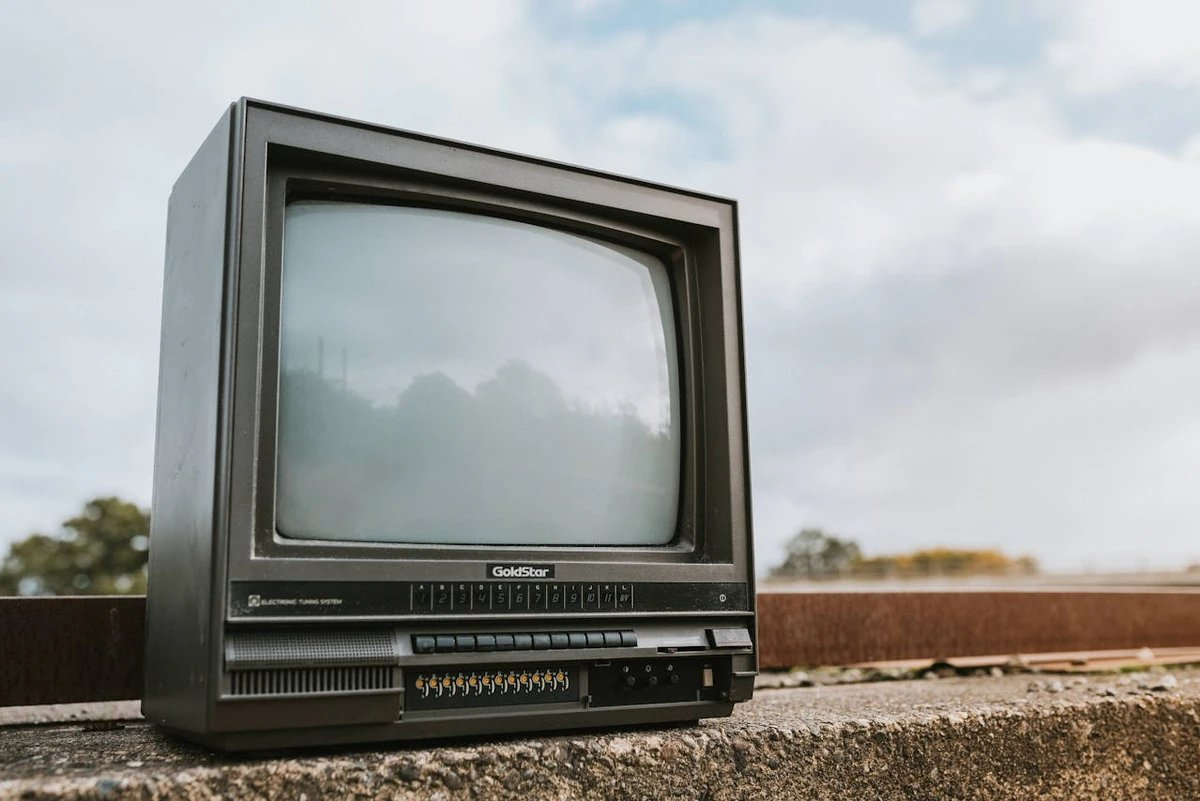
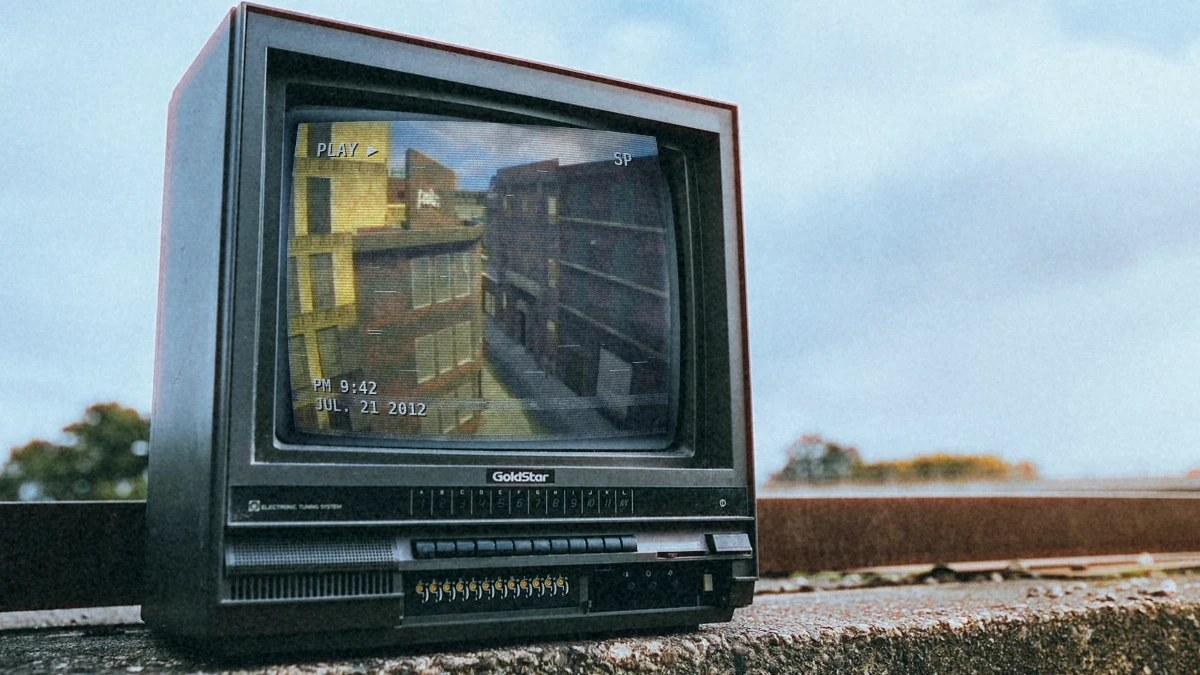
Use the 2012 VHS TV photo and move the panel beside the TV
The new background shows the map on the TV, so the panel now sits on the
right and only that side is darkened.

diff --git a/index.html b/index.html
@@ -23,23 +23,25 @@
         color: #e8e8e8;
         font-family: Tahoma, Verdana, sans-serif;
     }
-    /* Darkens the photo so the text stays readable. */
+    /* Keeps the TV on the left clear and darkens the right, behind the text. */
     .shade {
         position: fixed;
         top: 0;
         right: 0;
         bottom: 0;
         left: 0;
-        background: rgba(10, 13, 20, 0.55);
+        background: -webkit-linear-gradient(left, rgba(10, 13, 20, 0) 0%, rgba(10, 13, 20, 0.1) 55%, rgba(10, 13, 20, 0.7) 100%); /* older GMod browser */
+        background: linear-gradient(to right, rgba(10, 13, 20, 0) 0%, rgba(10, 13, 20, 0.1) 55%, rgba(10, 13, 20, 0.7) 100%);
     }
+    /* The panel sits in the sky to the right of the TV. */
     .wrap {
         position: absolute;
         top: 50%;
-        left: 50%;
-        width: 720px;
-        max-width: 90%;
-        -webkit-transform: translate(-50%, -50%); /* older GMod browser */
-        transform: translate(-50%, -50%);
+        right: 3%;
+        width: 34%;
+        min-width: 380px;
+        -webkit-transform: translateY(-50%); /* older GMod browser */
+        transform: translateY(-50%);
     }
     .banner {
         border-radius: 8px;
@@ -50,7 +52,7 @@
     .banner h1 {
         margin: 0;
         font-family: "Trebuchet MS", Tahoma, sans-serif;
-        font-size: 44px;
+        font-size: 38px;
         color: #fff;
         text-shadow: 2px 2px 3px #000;
     }
